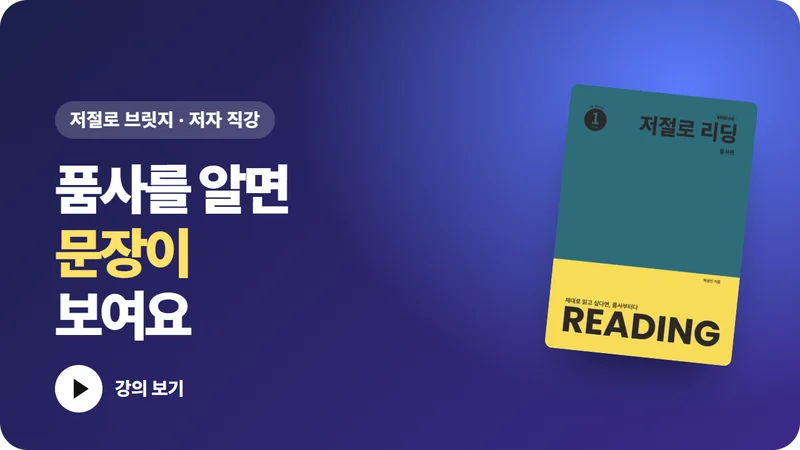
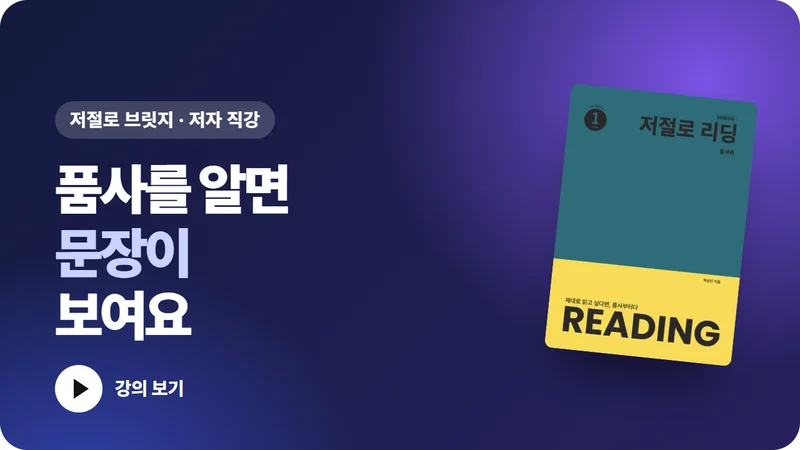
학원 도입: 듣고 빈칸 첫 글자 힌트로, '정답지까지 한 번에'(어순 배열·듣고 빈칸 정답지), 저자 직강 썸네일 색을 사이트 파랑·보라로 통일

diff --git a/academy/index.html b/academy/index.html
@@ -120,6 +120,10 @@
 .lecg a:hover{transform:translateY(-4px);box-shadow:0 20px 36px -18px rgba(12,16,32,.55)}
 .lecg img{width:100%;display:block}
 @media(max-width:860px){.lecg{grid-template-columns:1fr 1fr;gap:10px}}
+.wbkey{display:grid;grid-template-columns:minmax(0,1fr) minmax(0,2.2fr);gap:28px;align-items:center;margin-top:44px}
+.wbkey b{display:block;font-size:20px;font-weight:800;letter-spacing:-.03em}.wbkey span{display:block;font-size:14.5px;color:var(--sub);margin-top:6px;line-height:1.6}
+.wbkey img{width:100%;display:block}
+@media(max-width:760px){.wbkey{grid-template-columns:1fr;gap:12px}}
 .wbstrip{margin-top:40px;border-radius:22px;overflow:hidden}
 .wbstrip img{width:100%;display:block}
 .wbtypes{display:grid;grid-template-columns:repeat(5,minmax(0,1fr));gap:8px;margin-top:14px;padding:0 3.5%}
@@ -344,17 +348,18 @@
       <li><b>인쇄 · PDF 저장</b><span>학원 이름을 넣고, 정답지도 함께</span></li>
     </ol>
   </div>
-  <div class="wbstrip rev"><img src="/academy/img/tool_workbook_out.webp?v=3" alt="첫모의고사 1 Unit 3으로 만든 워크북 5종" loading="lazy"></div>
+  <div class="wbstrip rev"><img src="/academy/img/tool_workbook_out.webp?v=4" alt="첫모의고사 1 Unit 3으로 만든 워크북 5종" loading="lazy"></div>
   <div class="wbtypes rev"><span>단어 뜻 쓰기</span><span>단어 쓰기</span><span>문장 해석</span><span>어순 배열</span><span>듣고 빈칸 쓰기</span></div>
+  <div class="wbkey rev"><div class="tx"><b>정답지까지 한 번에</b><span>문제지와 똑같은 순서로 정답지가 함께 나와요. 채점도 바로 해요.</span></div><img src="/academy/img/tool_workbook_key.webp?v=1" alt="어순 배열·듣고 빈칸 쓰기 정답지" loading="lazy"></div>
 </div></section>
 
 <section class="sec" id="lecture"><div class="wrap">
   <div class="sh rev"><h2>주요 교재 저자 직강 영상</h2><p>강의가 없어도 수업은 자연스럽게 돌아가요. 개념을 한 번 더 짚고 싶을 땐, 책의 QR로 저자 강의를 바로 볼 수 있어요.</p></div>
   <div class="lecg">
-    <a class="rev" href="/studio/?book=ph1"><img src="/academy/img/lec1.webp?v=1" alt="저절로 파닉스 저자 직강" loading="lazy"></a>
-    <a class="rev" href="/studio/?book=rbr1"><img src="/academy/img/lec4.webp?v=1" alt="저절로 브릿지 저자 직강" loading="lazy"></a>
-    <a class="rev" href="/studio/?book=rba1"><img src="/academy/img/lec2.webp?v=1" alt="저절로 기본 저자 직강" loading="lazy"></a>
-    <a class="rev" href="/studio/?book=rmo1"><img src="/academy/img/lec3.webp?v=1" alt="저절로 첫모의고사 저자 직강" loading="lazy"></a>
+    <a class="rev" href="/studio/?book=ph1"><img src="/academy/img/lec1.webp?v=2" alt="저절로 파닉스 저자 직강" loading="lazy"></a>
+    <a class="rev" href="/studio/?book=rbr1"><img src="/academy/img/lec4.webp?v=2" alt="저절로 브릿지 저자 직강" loading="lazy"></a>
+    <a class="rev" href="/studio/?book=rba1"><img src="/academy/img/lec2.webp?v=2" alt="저절로 기본 저자 직강" loading="lazy"></a>
+    <a class="rev" href="/studio/?book=rmo1"><img src="/academy/img/lec3.webp?v=2" alt="저절로 첫모의고사 저자 직강" loading="lazy"></a>
   </div>
 </div></section>
 
